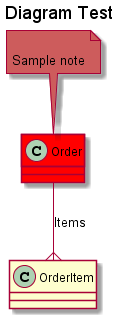
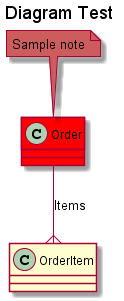
format puml notes without empty lines

diff --git a/app/Tests/DiagramTests.cs b/app/Tests/DiagramTests.cs
@@ -69,7 +69,6 @@ class Order #ff0000
 {
 }
 note top of Order
-
 Sample note
 end note
 class OrderItem
@@ -106,14 +105,12 @@ class Order2
 {
 }
 note right of Order2
-
 Note from annotation
 end note
 class OrderItem2
 {
 }
 note left of OrderItem2
-
 Note from UmlNote
 end note
 
@@ -151,7 +148,6 @@ class Order #ff0000
 {
 }
 note top of Order #indianred
-
 Sample note
 end note
 class OrderItem
@@ -271,7 +267,6 @@ class Order3
 {
 }
 note right of Order3
-
 Note from annotation
 end note
 class CompanyInfo
@@ -282,11 +277,14 @@ class OrderItem3
 {
 }
 note left of OrderItem3
-
 Note from UmlNote
 end note
 
-Order3 o--> CompanyInfo:Customer
+Order3 o-right-> CompanyInfo:Customer
+note on link  #ffe0f0
+Note on relation
+from UmlRelationAtribute
+end note
 Order3 *--{ OrderItem3:Items
 @enduml
 ";

diff --git a/app/AutoUml/_project/UmlProjectDiagram.cs b/app/AutoUml/_project/UmlProjectDiagram.cs
@@ -123,7 +123,8 @@ namespace AutoUml
                     bg = " " + bg;
                 cf.Writeln($"note {i.Key.ToString().ToLower()} of {info.Name.AddQuotesIfNecessary()}{bg}");
                 foreach (var j in i.Value.Text.Split('\n'))
-                    cf.Writeln(j);
+                    if (!string.IsNullOrEmpty(j))
+                        cf.Writeln(j);
                 cf.Writeln("end note");
             }            
             return result;
